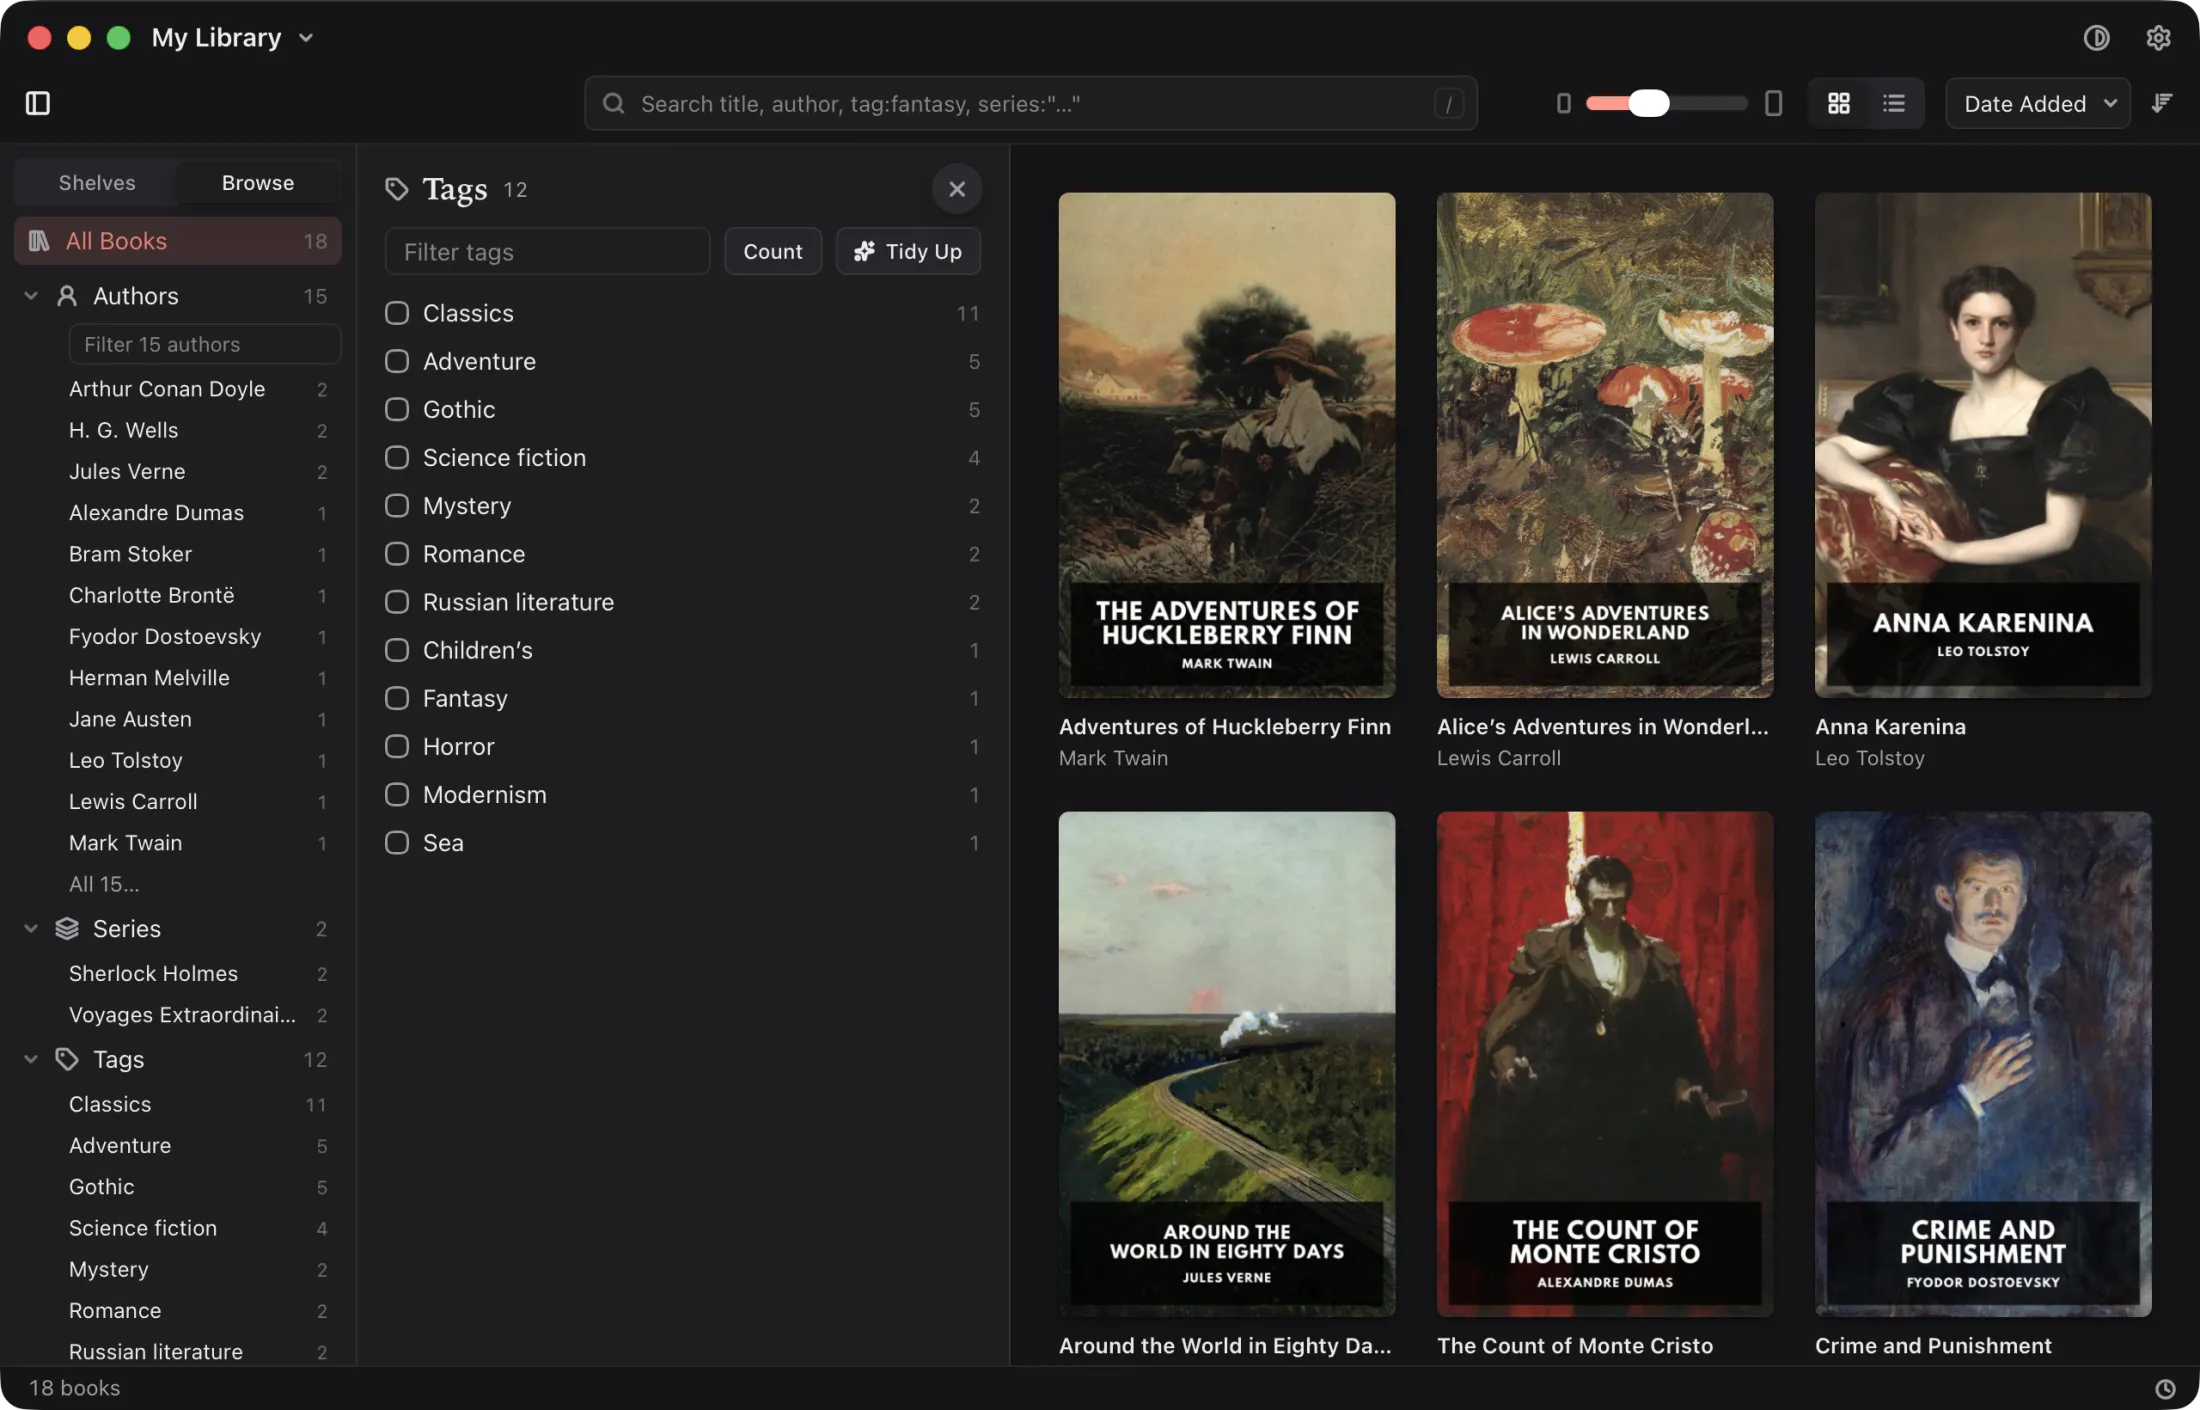
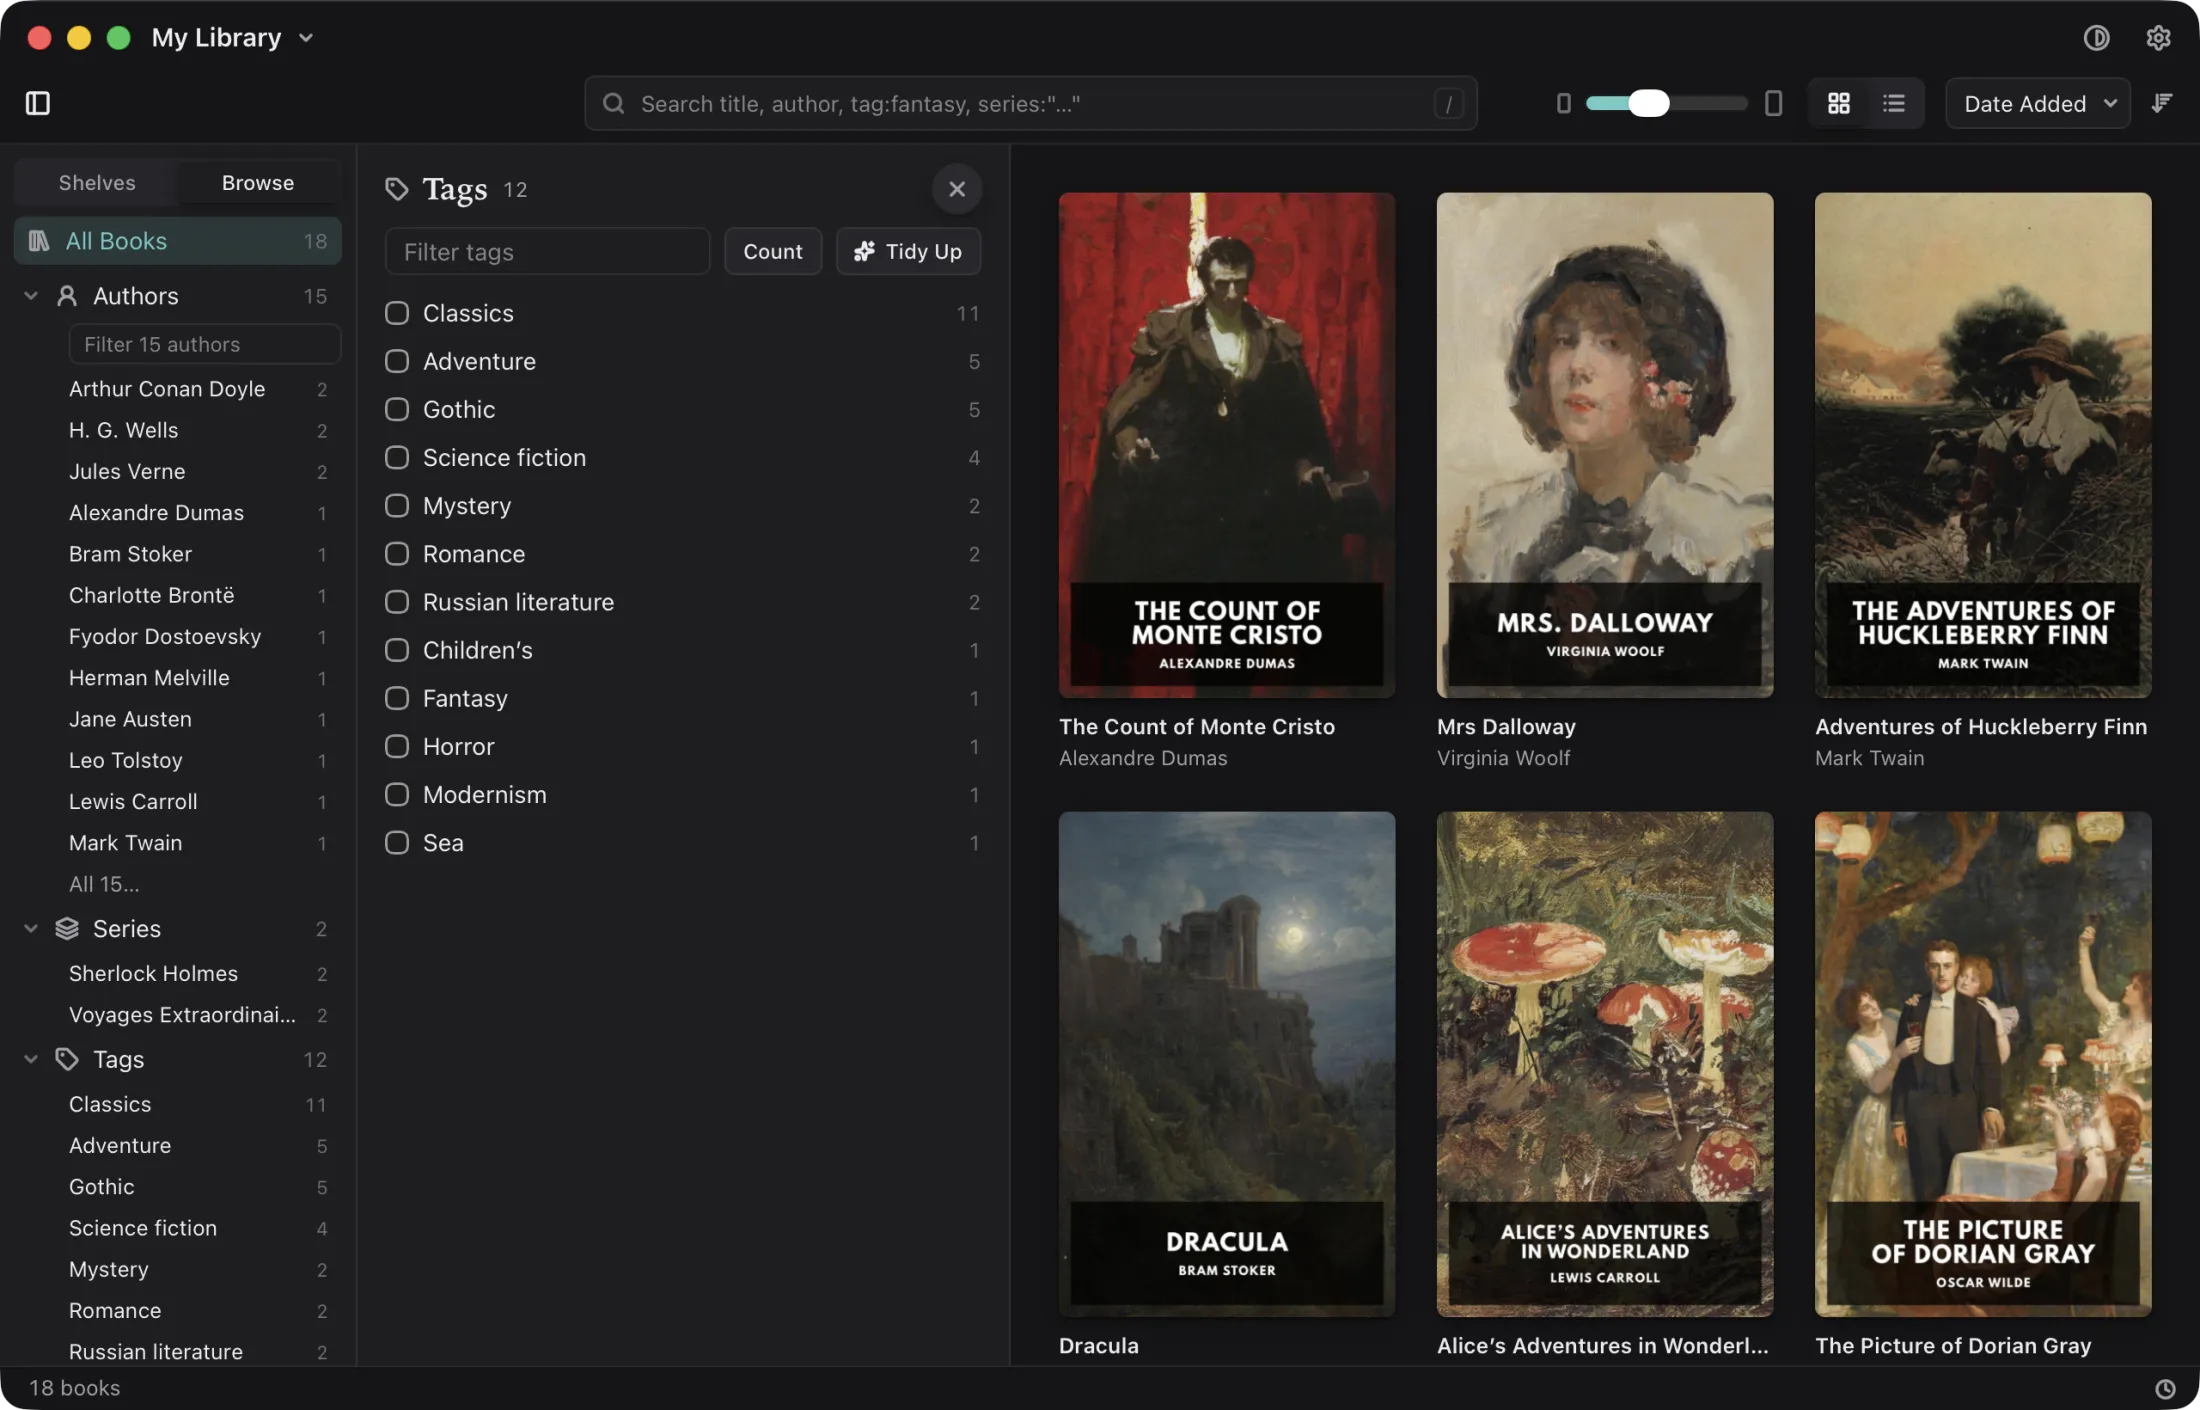
Screenshots: Library, List and Details too, from a truer demo library
- Three more views, in Light and Dark: the cover grid beside the shelves,
  the list the width of the window, and Monte Cristo's details at two
  columns, its red carried by the panel's cover blend. Browse, Edit and
  Settings are retaken alongside. On phones the six tabs sit three by two.
- The demo books carry their first publication dates (book or first
  serial instalment; month or year where that's all that's known), and
  the dates they were added, which demo-library.py sets in the database.
- The tour writes the demo library's metadata into its EPUBs first, so the
  details panel doesn't offer to.

Changed region(s): [[0.4636, 0.1248, 0.9891, 0.9674], [0.0309, 0.156, 0.0927, 0.1872], [0.7109, 0.0624, 0.7418, 0.0936]]

diff --git a/scripts/screenshots/tour.js b/scripts/screenshots/tour.js
@@ -1,7 +1,8 @@
 // The screenshot tour, run inside the app by scripts/screenshots.py: it's
 // copied to crates/app/ui/dev-hook.js (with __DEMO__ replaced by the demo
 // library's path) and loaded by `cargo tauri dev`'s page. It opens the demo
-// library, shows each view for HOLD ms in Light and then Dark, and puts
+// library, shows each view for HOLD ms in Light and then Dark (grid, list,
+// details, browse, edit, settings), and puts
 // everything back: the library, and every setting it touched (it restores
 // localStorage as it found it). A magenta slate fills the window at the start
 // and the end, so the capture knows which frames are the tour's.
@@ -21,6 +22,7 @@ const wait = (ms) => new Promise((r) => setTimeout(r, ms));
   const view = await import('/src/view.ts');
   const browse = await import('/src/browse.ts');
   const editor = await import('/src/editor.ts');
+  const { api } = await import('/src/api.ts');
   const { emit } = await import('@tauri-apps/api/event');
 
   for (let i = 0; i < 100 && !library.library(); i++) await wait(100);
@@ -58,15 +60,50 @@ const wait = (ms) => new Promise((r) => setTimeout(r, ms));
   };
 
   await library.openLibrary(DEMO);
+  // The demo's EPUBs get the library's metadata, so the details panel doesn't
+  // offer to write it (demo-library.py sets it in the library only).
+  await api.writeAllMetadata();
+  await library.openLibrary(DEMO);
   await wait(500);
   view.setSidebarOpen(true);
   view.setViewMode('grid');
-  const book = library.items().find((b) => b.title === 'Pride and Prejudice') ?? library.items()[0];
+  const find = (title) => library.items().find((b) => b.title === title) ?? library.items()[0];
+  const book = find('Pride and Prejudice');
+  // A cover whose colour carries the details panel's blend in Light and Dark alike.
+  const vivid = find('The Count of Monte Cristo');
   await showSlate();
 
   for (const t of ['light', 'dark']) {
     theme.setTheme(t);
     theme.setAccent(null);
+
+    // The grid, beside the shelves.
+    view.setSidebarOpen(true);
+    view.setViewMode('grid');
+    library.setSelectedId(null);
+    library.setDetailsOpen(false);
+    await wait(300);
+    toTop();
+    await wait(HOLD);
+
+    // The list, the width of the window.
+    view.setSidebarOpen(false);
+    view.setViewMode('table');
+    await wait(300);
+    toTop();
+    await wait(HOLD);
+
+    // The details panel wide enough for two columns, its background blending toward the cover.
+    view.setViewMode('grid');
+    view.setDetailsWidth(640, false);
+    library.setSelectedId(vivid.id);
+    library.setDetailsOpen(true);
+    await wait(1000); // the cover's colours come from Rust
+    toTop();
+    document.querySelector(`[data-book-id="${vivid.id}"]`)?.scrollIntoView({ block: 'nearest' });
+    await wait(HOLD);
+    view.setDetailsWidth(Number(saved.detailsWidth) || view.DETAILS_WIDTH.initial, false);
+    view.setSidebarOpen(true);
 
     // Browse: the sidebar's other mode, three categories open, and every tag in the panel.
     library.setSelectedId(null);

diff --git a/scripts/demo-library.py b/scripts/demo-library.py
@@ -8,14 +8,17 @@ their Standard Ebooks editions) as EPUBs, once, into
 <app>/target/demo-library/epubs, then makes a Magnitide library from them,
 "My Library", at /Users/Shared/My Library (afresh each time; screenshots show
 its path, so not one under your home folder), with the app's add_books
-example, and gives the books the titles, authors, series, years, tags,
-ratings and shelves in demo-books.json with its apply_metadata example. The
+example, and gives the books the titles, authors, series, tags, ratings and
+shelves in demo-books.json with its apply_metadata example, then the dates
+they were added and published (YYYY-MM-DD, or YYYY-MM or YYYY where that's
+all that's known). The
 EPUBs are under the app repo's target/, which git ignores. Standard Ebooks
 dedicates its editions to the public domain (CC0).
 """
 
 import json
 import shutil
+import sqlite3
 import subprocess
 import tempfile
 import sys
@@ -57,9 +60,23 @@ def main() -> None:
     subprocess.run([*example, 'add_books', '--', str(library), '--name', 'My Library', *files], cwd=app, check=True)
 
     with tempfile.NamedTemporaryFile('w', suffix='.json') as f:
-        json.dump(BOOKS, f)
+        # apply_metadata takes a year; the full date goes in below.
+        json.dump([{**b, 'published': int(str(b['published'])[:4])} for b in BOOKS], f)
         f.flush()
         subprocess.run([*example, 'apply_metadata', '--', str(library), f.name], cwd=app, check=True)
+
+    # What the core has no setter for, straight into the database: when each
+    # book was added (a minute apart, in the file's order, so books added the
+    # same day still sort), and publication dates more precise than a year.
+    db = sqlite3.connect(library / 'magnitide.db')
+    with db:
+        for i, b in enumerate(BOOKS):
+            added = f'{b["added"]}T09:{i:02}:00Z'
+            published = str(b['published'])
+            published += '-01-01'[len(published) - 4:] if len(published) < 10 else ''
+            db.execute('UPDATE books SET added_at = ?, modified_at = ?, published = ? WHERE title = ?',
+                       (added, added, published, b['title']))
+    db.close()
     print(library)
 
 

diff --git a/scripts/screenshots.py b/scripts/screenshots.py
@@ -11,8 +11,8 @@ It installs scripts/screenshots/tour.js as the app's dev hook, which makes the
 watcher relaunch the app; the tour then shows each view in turn while this
 captures the window, and puts the app back as it was. Frames that hold still
 between the tour's two magenta slates are the shots, written to
-public/screenshots/<theme>-<view>.webp (browse, edit, settings). Keep the window in front and uncovered while
-it runs (about a minute): macOS stops drawing a covered window.
+public/screenshots/<theme>-<view>.webp (SHOTS, below). Keep the window in front and uncovered while
+it runs (about two minutes): macOS stops drawing a covered window.
 """
 
 import glob
@@ -26,7 +26,7 @@ import time
 from pathlib import Path
 
 SITE = Path(__file__).resolve().parent.parent
-SHOTS = [f'{t}-{v}' for t in ('light', 'dark') for v in ('browse', 'edit', 'settings')]
+SHOTS = [f'{t}-{v}' for t in ('light', 'dark') for v in ('grid', 'list', 'details', 'browse', 'edit', 'settings')]
 HOOK_TAG = '  <script type="module" src="/dev-hook.js"></script>\n'
 TOUR_KEY = 'screenshotTourSaved'  # tour.js's snapshot of the app's settings, there while it runs
 

diff --git a/README.md b/README.md
@@ -41,7 +41,7 @@ scripts/demo-library.py    # once, or when scripts/demo-books.json changes: a de
 scripts/screenshots.py     # with `cargo tauri dev` running in ../magnitide; keep its window in front
 ```
 
-`demo-library.py` downloads the books in `scripts/demo-books.json` as EPUBs and builds the library with the app repo's `add_books` and `apply_metadata` examples, giving the books the tags, series, ratings and shelves listed there. `screenshots.py` runs `scripts/screenshots/tour.js` inside the dev app (it relaunches, opens the demo library, shows each view in Light and Dark, then puts back the library and every setting it touched), captures the window and keeps the views that hold still. It checks first that the screen can be captured: a locked screen stops it halfway.
+`demo-library.py` downloads the books in `scripts/demo-books.json` as EPUBs and builds the library with the app repo's `add_books` and `apply_metadata` examples, giving the books the tags, series, ratings and shelves listed there, then sets when each was added and first published straight in its database (the core has no setter for those). `screenshots.py` runs `scripts/screenshots/tour.js` inside the dev app (it relaunches, opens the demo library, shows each view in Light and Dark, then puts back the library and every setting it touched), captures the window and keeps the views that hold still. It checks first that the screen can be captured: a locked screen stops it halfway.
 
 ## Deploy
 
